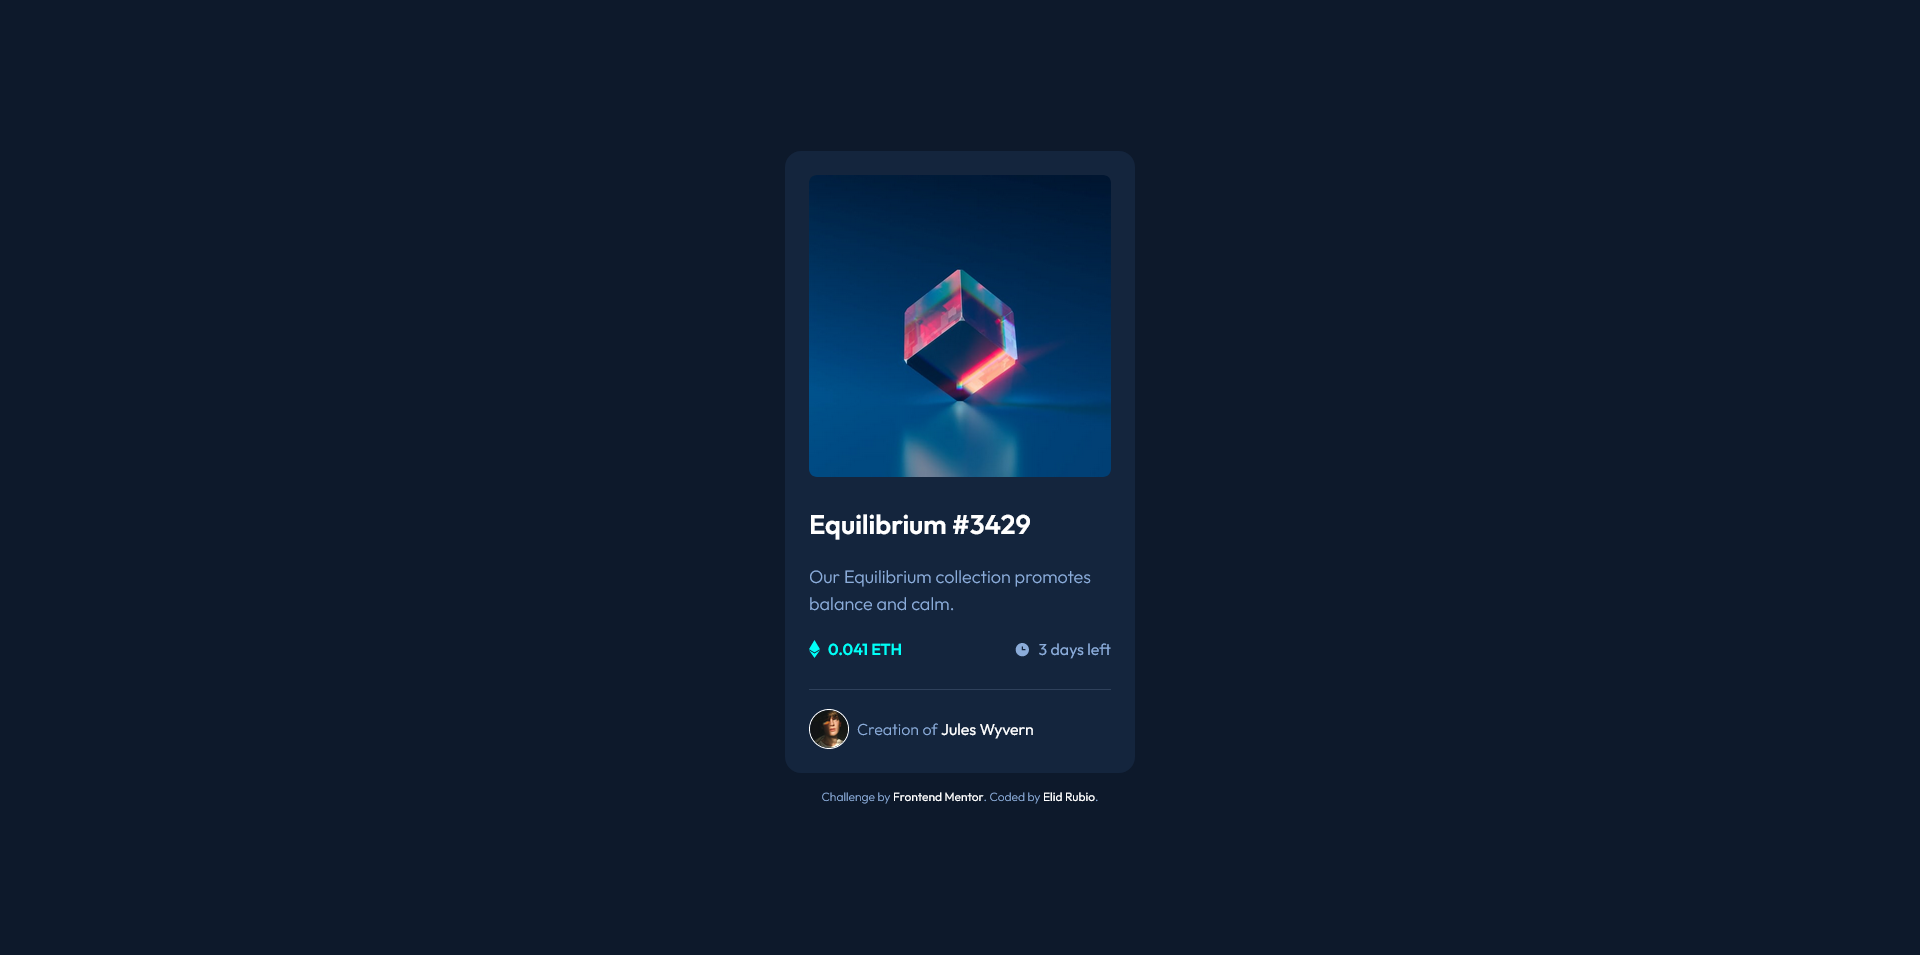
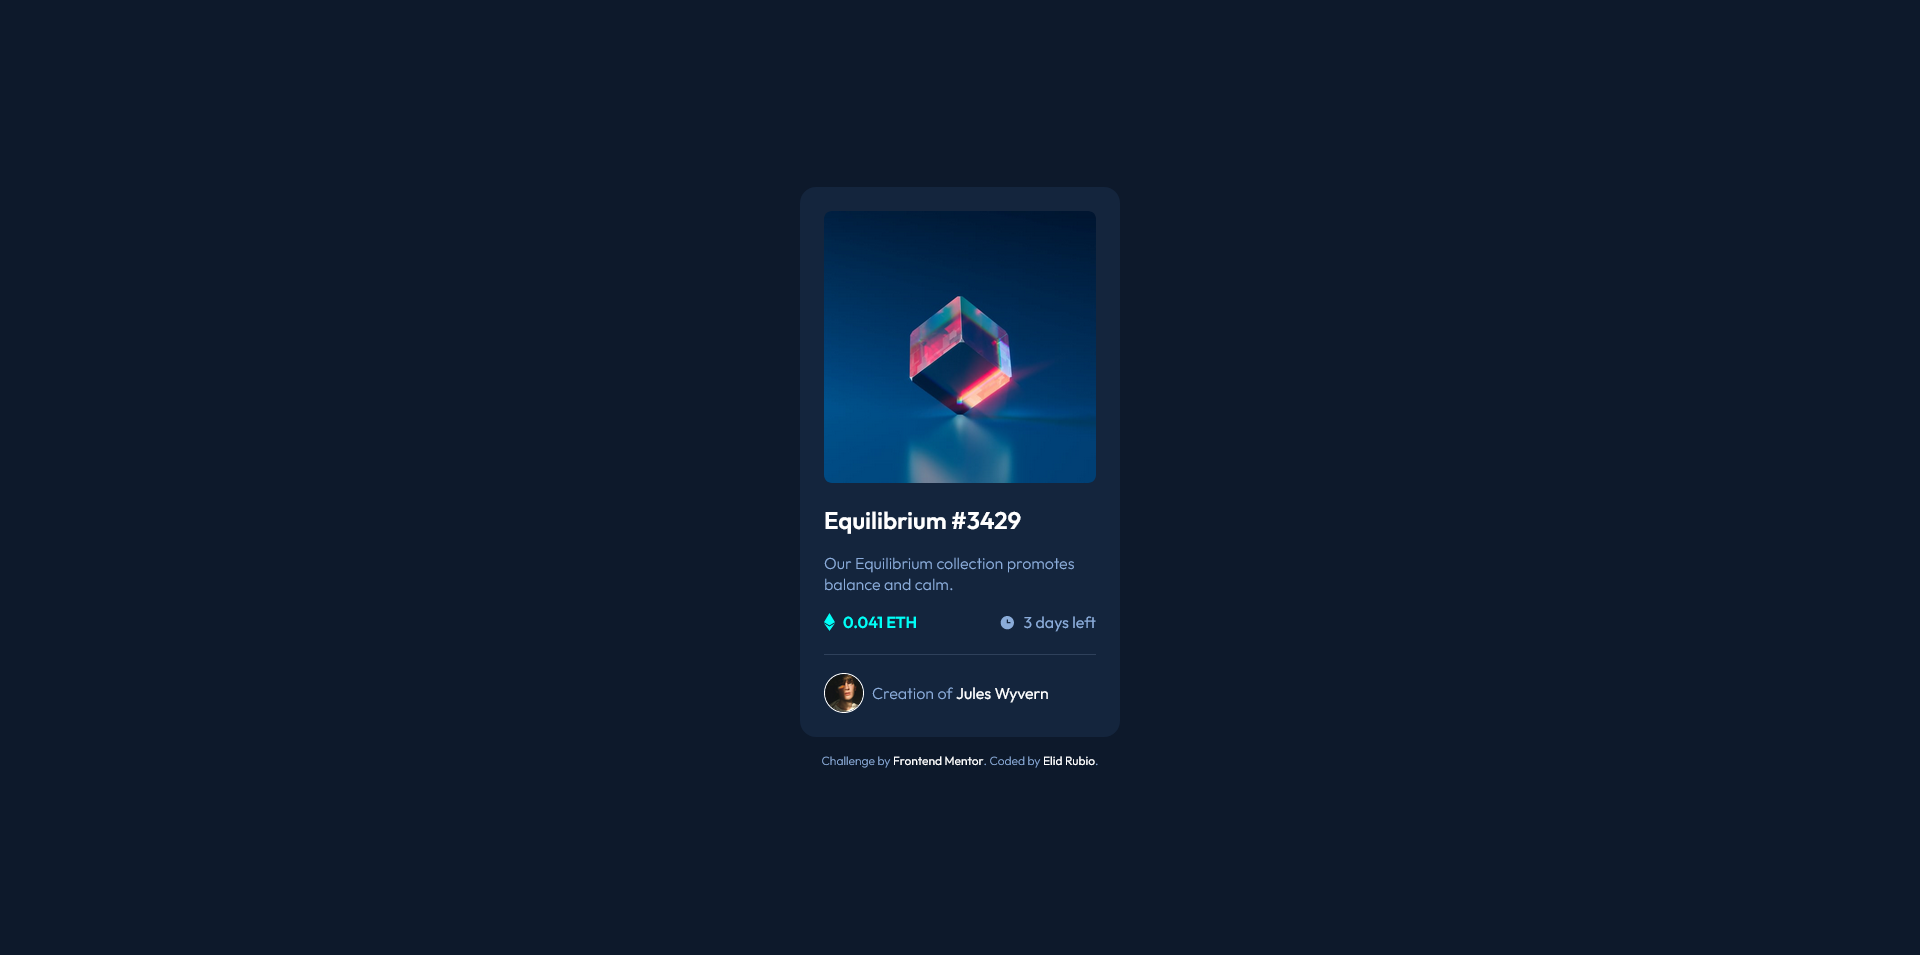
Add files via upload

Changed region(s): [[0.4062, 0.2429, 0.5938, 0.8503], [0.5312, 0.6377, 0.5625, 0.6984]]

diff --git a/styles.css b/styles.css
@@ -75,7 +75,8 @@ main {
     background-color: var(--very-dark-blue-card-bg);
     padding: 1.5rem;
     border-radius: 1rem;
-    max-width: 350px;
+    max-width: 320px;
+    font-size: 1rem;
     margin-bottom: 1rem;
 }
 
@@ -111,12 +112,13 @@ main {
 }
 
 .nftcard__body {
-    margin-bottom: 1.135rem;
+    margin-bottom: 1.125rem;
     border-bottom: 1px solid var(--very-dark-blue-line);
-    padding: 1.875rem 0;
+    padding: 1.375rem 0;
 }
 
 .nftcard__body--title {
+    font-size: 1.5rem;
     font-weight: 600;
 }
 
@@ -131,11 +133,9 @@ main {
     color: var(--cyan);
 }
 
-
-
 .nftcard__body--description {
-    margin: 1.375rem 0;
-    line-height: 1.5;
+    margin: 1.125rem 0;
+    line-height: 1.3;
 }
 
 .nftcard__body--nft-price,
@@ -177,6 +177,7 @@ main {
 }
 
 .nftcard__footer img {
+    font-size: 0.5rem;
     margin-right: 0.5rem;
     width: 2.5rem;
     border: 1px solid var(--white);

diff --git a/README.md b/README.md
@@ -1,6 +1,6 @@
 # Frontend Mentor - NFT preview card component solution
 
-This is a solution to the [NFT preview card component challenge on Frontend Mentor](https://www.frontendmentor.io/challenges/nft-preview-card-component-SbdUL_w0U). Frontend Mentor challenges help you improve your coding skills by building realistic projects. 
+This is a solution to the [NFT preview card component challenge on Frontend Mentor](https://www.frontendmentor.io/challenges/nft-preview-card-component-SbdUL_w0U). Frontend Mentor challenges help you improve your coding skills by building realistic projects.
 
 ## Table of contents
 
@@ -49,7 +49,3 @@ Users should be able to:
 ## Author
 
 - Frontend Mentor - [@elidrc](https://www.frontendmentor.io/profile/elidrc)
-- Github - [@elidrc](https://github.com/elidrc)
-- linkedIn - []()
-
-
